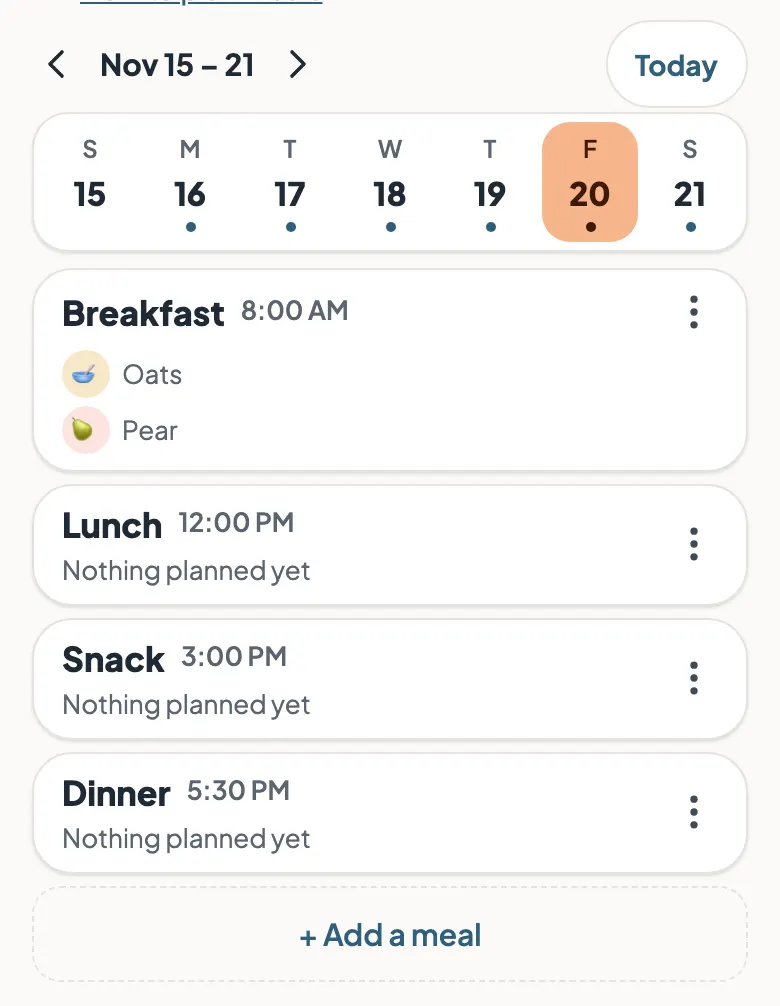
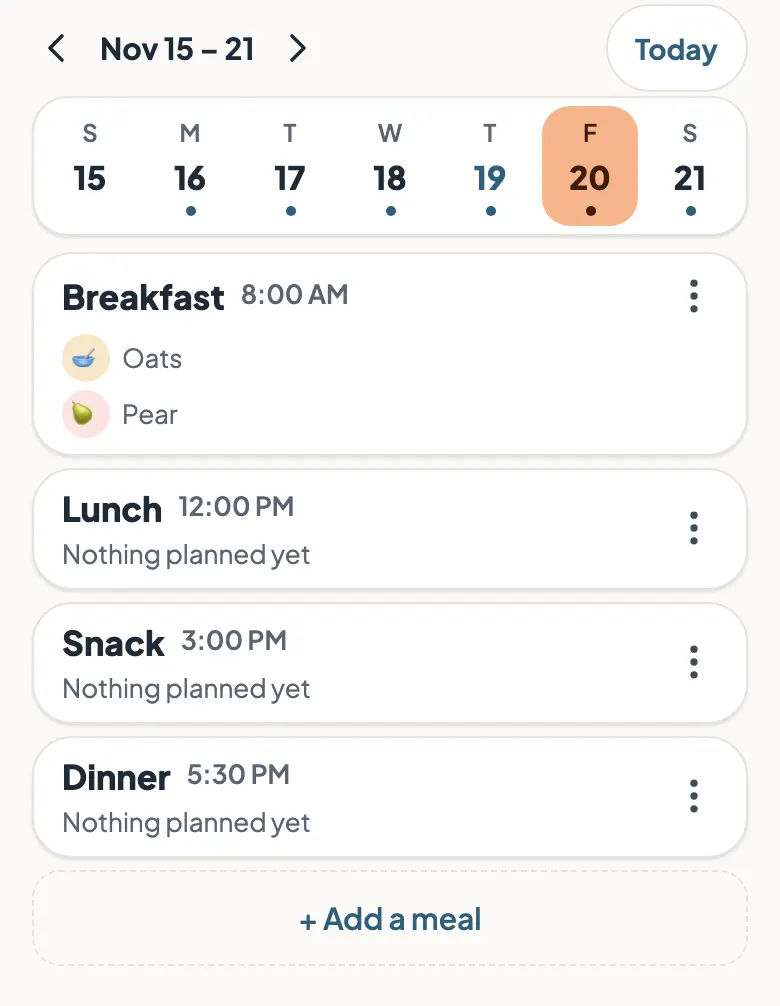
Guides: retake plan-1-day and plan-3-copy with the day markers (ledger 1000)
Page clock 2026-11-19 (Thursday), inside the shown week. plan-1-day
shows today's 19 in the accent; its 503px crop now starts below the
How to plan meals underline (ledger 1001). plan-3-copy shows Thursday,
the day copied from, outlined. Alts say so. content.test pins the five
retaken shots at their sizes.

diff --git a/client/src/features/safety/content.test.ts b/client/src/features/safety/content.test.ts
@@ -385,6 +385,13 @@ describe("dark guide screenshots", () => {
       "serve-3-stars": [780, 840],
       "serve-4-notes": [780, 470],
       "recipe-5-saved": [780, 1416],
+      // Ledger 999/1000/1001: retaken at their earlier sizes (the clear ×,
+      // the day markers; plan-1-day's top moved below the How-to underline).
+      "meal-1-foods": [780, 558],
+      "recipe-2-ingredients": [780, 446],
+      "storage-1-what": [780, 450],
+      "plan-1-day": [780, 1006],
+      "plan-3-copy": [780, 1382],
     };
     for (const [name, dims] of Object.entries(expected)) {
       for (const file of [`${name}.webp`, `${name}-dark.webp`]) {
